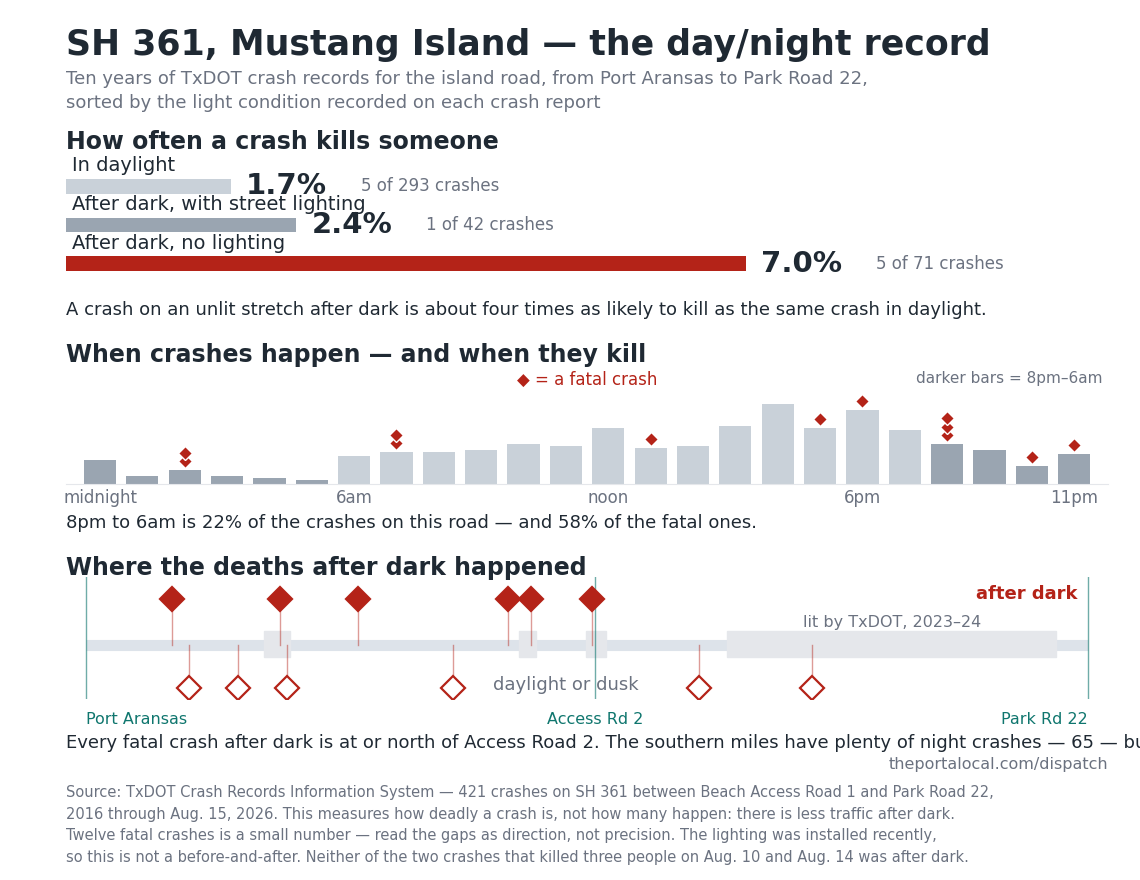
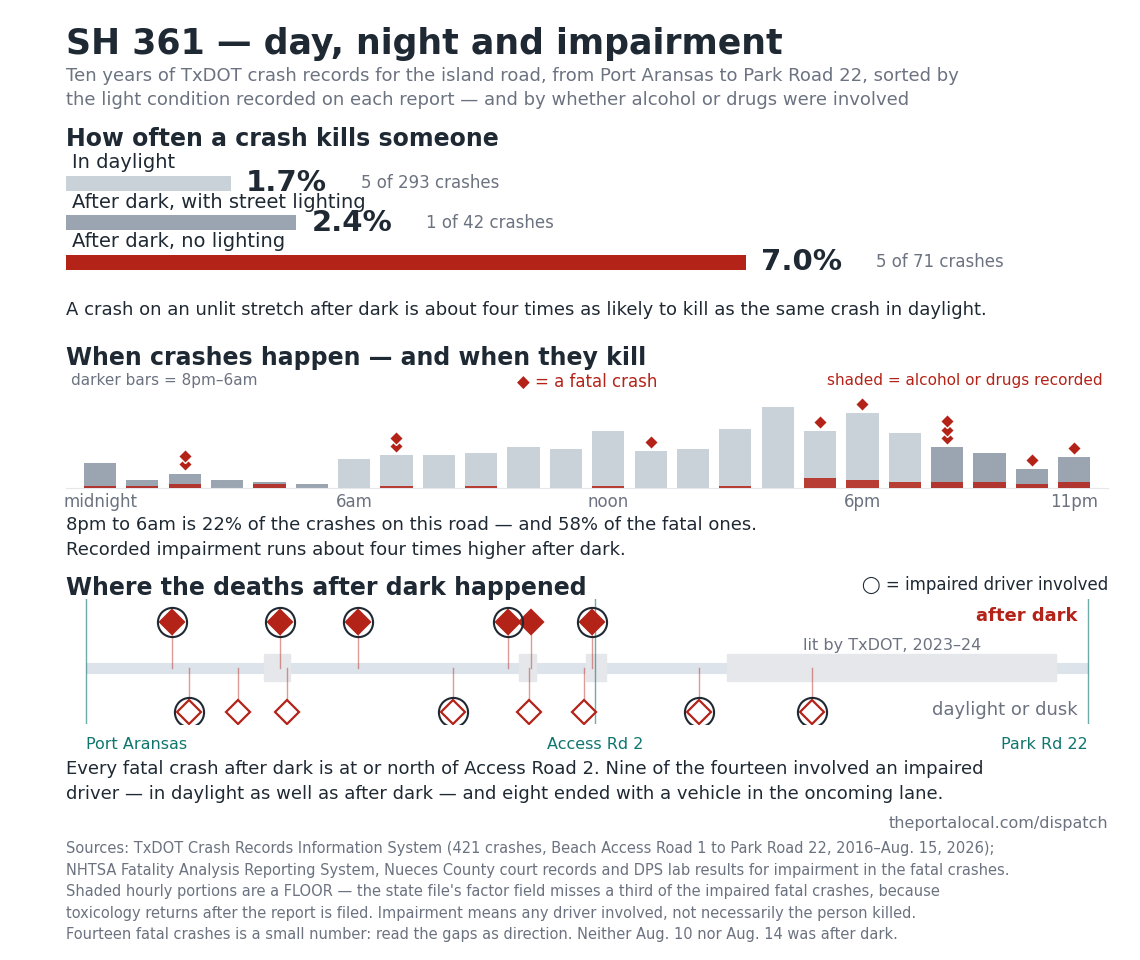
feat(dispatch): overlay impairment onto the SH 361 day/night graph (#149)
The alcohol layer was asked for on the graph; it shipped yesterday as prose and a
table only. Now it is on the chart, updated in place at the same filenames so the
published follow-up picks it up:

- Hours panel: the portion of each hour's crashes with alcohol or drugs recorded is
  shaded inside the bar. Labeled a floor on the face of the chart, because the state
  file's factor field misses a third of the impaired fatal crashes.
- Corridor panel: every fatal crash where an impaired driver was involved is circled.
  Impairment for the fatal crashes comes from FARS lab results, court outcomes and
  DPS toxicology — not the state factor field — so all fourteen are classified from
  the best available record. Nine of fourteen.
- Title, subtitle, captions, alt text and source note updated for the added layer.

The fatal-share-by-light panel is unchanged; alcohol is deliberately not crossed with
it, because those cells are one, two and three crashes.

Changed region(s): [[0.0307, 0.0307, 1.0, 0.9818]]

diff --git a/src/data/dispatch-content.ts b/src/data/dispatch-content.ts
@@ -426,9 +426,9 @@ export const dispatchContent: Record<string, DispatchContent> = {
         figure: {
           src: "/images/sh361-night-map.png",
           srcWide: "/images/sh361-night-map-desktop.png",
-          alt: "Three panels of SH 361 crash data by light condition: fatal share by daylight, dark with lighting and dark without; crashes by hour of day with fatal crashes marked; and the corridor showing where fatal crashes after dark occurred relative to lit sections.",
+          alt: "Three panels of SH 361 crash data. First, how often a crash kills someone by light condition: 1.7% in daylight, 2.4% after dark with street lighting, 7.0% after dark with none. Second, crashes by hour of day, with the portion involving recorded alcohol or drugs shaded and each fatal crash marked. Third, the corridor from Port Aransas to Park Road 22 showing every fatal crash by day or night, circled where an impaired driver was involved, against the sections TxDOT has lit.",
           caption:
-            "SH 361 between Beach Access Road 1 and Park Road 22, 2016 through August 15, 2026. Source: TxDOT Crash Records Information System. The underlying file is published with Saturday's piece.",
+            "SH 361 between Beach Access Road 1 and Park Road 22, 2016 through August 15, 2026. Updated August 18 with the impairment layer. Sources: TxDOT Crash Records Information System; NHTSA Fatality Analysis Reporting System, Nueces County court records and DPS lab results for impairment in the fatal crashes. The underlying file is published with Saturday's piece.",
           minWidth: 620,
         },
       },
@@ -465,7 +465,7 @@ export const dispatchContent: Record<string, DispatchContent> = {
       {
         heading: "Update, August 18: the alcohol layer, and why the file undercounts it",
         body: [
-          "A reader asked us to add impairment to the day-and-night view. We did, and it turned into two findings — one about the road, one about the record itself.",
+          "A reader asked us to add impairment to the day-and-night view. The chart above now carries it: the shaded portion of each hour is the share of those crashes with alcohol or drugs recorded, and every fatal crash circled in the bottom panel involved an impaired driver. Adding the layer turned up two findings — one about the road, one about the record itself.",
           "Sorted by light, the corridor's crash reports record alcohol or drugs in 4.4 percent of daylight crashes, 16.3 percent of crashes after dark on lit stretches, and 18.3 percent after dark with no lighting. Impairment shows up roughly four times as often in crashes after dark. That is thirty-three flagged crashes out of 421, so treat it as direction rather than a precise rate.",
           "Then we checked that field against the federal fatality file, which carries actual laboratory results, and it does not hold up. Of the corridor's twelve fatal crashes in the state file, the contributing-factor field flags six as involving alcohol or drugs. The federal file, court outcomes and DPS lab work establish impairment in nine.",
           "The clearest example is the crash that killed a 35-year-old Corpus Christi man in August 2024. The federal record puts the at-fault driver's blood alcohol at 0.200 — two and a half times the legal limit. The state crash report's contributing-factor field for that crash says only \"failed to drive in single lane.\"",

diff --git a/Port A Local/Dispatch Research/SH 361 — data/nightgraph.py b/Port A Local/Dispatch Research/SH 361 — data/nightgraph.py
@@ -18,6 +18,23 @@ C = [r for r in rows if f(r["DFO"]) is not None and LO <= f(r["DFO"]) <= HI]
 def isfatal(r): return r["Crash Severity"].startswith("K")
 def isdark(r):  return r["Light Condition"].startswith("DARK")   # dawn/dusk are not dark
 
+# Impairment for the FATAL crashes comes from the best available record — FARS lab
+# results, court outcomes, DPS toxicology — not the state file's contributing-factor
+# field, which misses a third of them. Keyed by crash date.
+IMPAIRED_FATAL = {
+    "2016-01-13": True,   "2018-03-17": True,   "2019-01-25": False,
+    "2022-06-16": False,  "2022-08-13": True,   "2023-06-30": True,
+    "2023-07-03": True,   "2023-11-02": True,   "2024-05-14": True,
+    "2024-08-09": True,   "2025-08-15": True,   "2026-03-02": False,
+}
+# Aug 2026 crashes are not in the state file yet: (DFO, deaths, dark?, impaired?)
+NEWS_FATAL = [(27.72, 1, False, False), (26.90, 2, False, False)]
+ALC_FLAG = ("UNDER INFLUENCE - ALCOHOL", "HAD BEEN DRINKING",
+            "UNDER INFLUENCE - DRUG", "TAKING MEDICATION")
+def flagged(r):
+    s = (r["Contributing Factors"] or "") + ";" + (r["Other Factor"] or "")
+    return any(k in s for k in ALC_FLAG)
+
 # same palette as the published corridor chart
 INK="#1f2933"; MUTED="#6b7280"; GRID="#e5e7eb"; BAR="#9aa5b1"; BARLIGHT="#c9d1d9"
 FATAL="#b42318"; ACCENT="#0f766e"; PAPER="#ffffff"
@@ -26,10 +43,11 @@ GROUPS = [("In daylight", "DAYLIGHT", BARLIGHT),
           ("After dark, with street lighting", "DARK, LIGHTED", BAR),
           ("After dark, no lighting", "DARK, NOT LIGHTED", FATAL)]
 LIT_SECTIONS = [(22.96, 23.34), (26.75, 27.00), (27.75, 28.05), (29.85, 34.75)]
-SOURCE = ("Source: TxDOT Crash Records Information System — 421 crashes on SH 361 between Beach Access Road 1 and Park Road 22,\n"
-          "2016 through Aug. 15, 2026. This measures how deadly a crash is, not how many happen: there is less traffic after dark.\n"
-          "Twelve fatal crashes is a small number — read the gaps as direction, not precision. The lighting was installed recently,\n"
-          "so this is not a before-and-after. Neither of the two crashes that killed three people on Aug. 10 and Aug. 14 was after dark.")
+SOURCE = ("Sources: TxDOT Crash Records Information System (421 crashes, Beach Access Road 1 to Park Road 22, 2016–Aug. 15, 2026);\n"
+          "NHTSA Fatality Analysis Reporting System, Nueces County court records and DPS lab results for impairment in the fatal crashes.\n"
+          "Shaded hourly portions are a FLOOR — the state file's factor field misses a third of the impaired fatal crashes, because\n"
+          "toxicology returns after the report is filed. Impairment means any driver involved, not necessarily the person killed.\n"
+          "Fourteen fatal crashes is a small number: read the gaps as direction. Neither Aug. 10 nor Aug. 14 was after dark.")
 
 
 def panel_share(ax, label_size, num_size, note_size, gap=1.55):
@@ -49,16 +67,20 @@ def panel_share(ax, label_size, num_size, note_size, gap=1.55):
 
 
 def panel_hours(ax, tick_size, legend_size):
-    H = collections.Counter(); HF = collections.Counter()
+    H = collections.Counter(); HF = collections.Counter(); HA = collections.Counter()
     for r in C:
         t = (r["Crash Time"] or "").strip()
         if len(t) != 4 or not t[:2].isdigit(): continue
         h = int(t[:2]); H[h] += 1
         if isfatal(r): HF[h] += 1
+        if flagged(r): HA[h] += 1
     hours = range(24)
     isnight = lambda h: h >= 20 or h < 6
     ax.bar(list(hours), [H[h] for h in hours], width=0.76, zorder=2,
            color=[BAR if isnight(h) else BARLIGHT for h in hours])
+    # impairment overlay — the portion of each hour's crashes with a recorded
+    # alcohol or drug factor. A floor: the field misses cases (see note).
+    ax.bar(list(hours), [HA[h] for h in hours], width=0.76, zorder=3, color=FATAL, alpha=0.85)
     for h in hours:
         for i in range(HF[h]):
             ax.plot([h], [H[h] + 4.5 + 4.2 * i], marker="D", color=FATAL, ms=7.5,
@@ -71,25 +93,35 @@ def panel_hours(ax, tick_size, legend_size):
     ax.spines["bottom"].set_color(GRID)
     ax.text(0.5, 0.93, "◆ = a fatal crash", transform=ax.transAxes, fontsize=legend_size,
             color=FATAL, ha="center", va="top")
-    ax.text(0.995, 0.93, "darker bars = 8pm–6am", transform=ax.transAxes,
-            fontsize=legend_size - 1, color=MUTED, ha="right", va="top")
+    ax.text(0.995, 0.93, "shaded = alcohol or drugs recorded", transform=ax.transAxes,
+            fontsize=legend_size - 1, color=FATAL, ha="right", va="top")
+    ax.text(0.005, 0.93, "darker bars = 8pm–6am", transform=ax.transAxes,
+            fontsize=legend_size - 1, color=MUTED, ha="left", va="top")
 
 
 def panel_corridor(ax, label_size, tick_size):
     for a, b in LIT_SECTIONS:
         ax.axvspan(a, b, ymin=0.34, ymax=0.56, color=GRID, zorder=1)
     ax.plot([LO, HI], [0.45, 0.45], color="#dde3ea", lw=8, solid_capstyle="butt", zorder=0)
-    for r in C:
-        if not isfatal(r): continue
-        d = f(r["DFO"]); dark = isdark(r)
-        ax.plot([d], [0.86 if dark else 0.06], marker="D", ms=12,
+    def mark(d, dark, impaired):
+        y = 0.86 if dark else 0.06
+        ax.plot([d], [y], marker="D", ms=12,
                 mfc=FATAL if dark else PAPER, mec=FATAL, mew=1.6, zorder=4)
         ax.plot([d, d], [0.45, 0.79 if dark else 0.13], color=FATAL, lw=1,
                 alpha=0.45, zorder=2)
+        if impaired:
+            ax.plot([d], [y], marker="o", ms=21, mfc="none", mec=INK, mew=1.5,
+                    zorder=5)
+    for r in C:
+        if not isfatal(r): continue
+        mark(f(r["DFO"]), isdark(r), IMPAIRED_FATAL.get(r["Crash Date"], False))
+    for d, _n, dark, imp in NEWS_FATAL:
+        mark(d, dark, imp)
     ax.text(HI - 0.15, 0.99, "after dark", fontsize=label_size, color=FATAL,
             fontweight="bold", va="top", ha="right")
-    ax.text(27.45, 0.0, "daylight or dusk", fontsize=label_size, color=MUTED,
-            va="bottom", ha="center")
+    ax.text(HI - 0.15, 0.0, "daylight or dusk", fontsize=label_size, color=MUTED,
+            va="bottom", ha="right")
+
     ax.text(32.3, 0.585, "lit by TxDOT, 2023–24", fontsize=tick_size, color=MUTED,
             ha="center", va="bottom")
     for x, lab, ha in [(20.31, "Port Aransas", "left"), (27.88, "Access Rd 2", "center"),
@@ -106,10 +138,10 @@ def render_mobile(out):
     fig = plt.figure(figsize=(10.8, 13.5), dpi=100); fig.patch.set_facecolor(PAPER)
     head = lambda y, t: fig.text(L, y, t, fontsize=20, fontweight="bold", color=INK, va="top")
     note = lambda y, t: fig.text(L, y, t, fontsize=14.5, color=INK, va="top", linespacing=1.5)
-    fig.text(L, 0.972, "SH 361, Mustang Island — the day/night record",
+    fig.text(L, 0.972, "SH 361 — day, night and impairment",
              fontsize=26, fontweight="bold", color=INK, va="top")
-    fig.text(L, 0.936, "Ten years of TxDOT crash records for the island road, from Port Aransas\n"
-                       "to Park Road 22, sorted by the light condition on each crash report",
+    fig.text(L, 0.936, "Ten years of TxDOT crash records for the island road, Port Aransas to Park\n"
+                       "Road 22 — by light condition, and by whether drink or drugs were involved",
              fontsize=15, color=MUTED, va="top", linespacing=1.45)
     head(0.876, "How often a crash kills someone")
     panel_share(fig.add_axes([L, 0.700, W, 0.156]), 16.5, 25, 13.5)
@@ -117,12 +149,15 @@ def render_mobile(out):
                 "as the same crash in daylight.")
     head(0.630, "When crashes happen — and when they kill")
     panel_hours(fig.add_axes([L, 0.464, W, 0.145]), 13.5, 13.5)
-    note(0.426, "8pm to 6am is 22% of the crashes on this road — and 58% of the fatal ones.")
+    note(0.420, "8pm to 6am is 22% of the crashes on this road — and 58% of the fatal ones.\n"
+                "Recorded impairment runs about four times higher after dark.")
     head(0.384, "Where the deaths after dark happened")
+    fig.text(R, 0.384, "◯ = impaired driver involved", fontsize=13, color=INK,
+             va="top", ha="right")
     panel_corridor(fig.add_axes([L, 0.205, W, 0.148]), 14.5, 13)
-    note(0.162, "Every fatal crash after dark is at or north of Access Road 2. The southern\n"
-                "miles have plenty of night crashes — 65 — but none of them fatal, before or\n"
-                "after the lights went in.")
+    note(0.156, "Every fatal crash after dark is at or north of Access Road 2. Nine of the\n"
+                "fourteen involved an impaired driver — in daylight as well as after dark —\n"
+                "and eight ended with a vehicle in the oncoming lane.")
     fig.text(R, 0.104, "theportalocal.com/dispatch", fontsize=12.5, color=MUTED,
              va="top", ha="right")
     fig.text(L, 0.078, SOURCE, fontsize=11, color=MUTED, va="top", linespacing=1.55)
@@ -132,25 +167,29 @@ def render_mobile(out):
 def render_desktop(out):
     """Landscape: same three panels, stacked full width — wide and short."""
     L, R = 0.058, 0.972; W = R - L
-    fig = plt.figure(figsize=(11.4, 8.8), dpi=100); fig.patch.set_facecolor(PAPER)
+    fig = plt.figure(figsize=(11.4, 9.6), dpi=100); fig.patch.set_facecolor(PAPER)
     head = lambda y, t: fig.text(L, y, t, fontsize=17, fontweight="bold", color=INK, va="top")
     note = lambda y, t: fig.text(L, y, t, fontsize=13, color=INK, va="top", linespacing=1.5)
-    fig.text(L, 0.968, "SH 361, Mustang Island — the day/night record",
+    fig.text(L, 0.972, "SH 361 — day, night and impairment",
              fontsize=25, fontweight="bold", color=INK, va="top")
-    fig.text(L, 0.921, "Ten years of TxDOT crash records for the island road, from Port Aransas to Park Road 22,\n"
-                       "sorted by the light condition recorded on each crash report",
+    fig.text(L, 0.930, "Ten years of TxDOT crash records for the island road, from Port Aransas to Park Road 22, sorted by\n"
+                       "the light condition recorded on each report — and by whether alcohol or drugs were involved",
              fontsize=13, color=MUTED, va="top", linespacing=1.45)
-    head(0.852, "How often a crash kills someone")
-    panel_share(fig.add_axes([L, 0.672, W, 0.158]), 14, 21, 12, gap=1.35)
-    note(0.658, "A crash on an unlit stretch after dark is about four times as likely to kill as the same crash in daylight.")
-    head(0.610, "When crashes happen — and when they kill")
-    panel_hours(fig.add_axes([L, 0.450, W, 0.138]), 12, 12)
-    note(0.416, "8pm to 6am is 22% of the crashes on this road — and 58% of the fatal ones.")
-    head(0.368, "Where the deaths after dark happened")
-    panel_corridor(fig.add_axes([L, 0.206, W, 0.138]), 13, 11.5)
-    note(0.166, "Every fatal crash after dark is at or north of Access Road 2. The southern miles have plenty of night crashes — 65 — but none fatal, before or after the lights.")
-    fig.text(R, 0.140, "theportalocal.com/dispatch", fontsize=11.5, color=MUTED, va="top", ha="right")
-    fig.text(L, 0.108, SOURCE, fontsize=10.5, color=MUTED, va="top", linespacing=1.55)
+    head(0.868, "How often a crash kills someone")
+    panel_share(fig.add_axes([L, 0.700, W, 0.148]), 14, 21, 12, gap=1.35)
+    note(0.686, "A crash on an unlit stretch after dark is about four times as likely to kill as the same crash in daylight.")
+    head(0.640, "When crashes happen — and when they kill")
+    panel_hours(fig.add_axes([L, 0.492, W, 0.128]), 12, 12)
+    note(0.462, "8pm to 6am is 22% of the crashes on this road — and 58% of the fatal ones.\n"
+                "Recorded impairment runs about four times higher after dark.")
+    head(0.400, "Where the deaths after dark happened")
+    fig.text(R, 0.400, "◯ = impaired driver involved", fontsize=12, color=INK,
+             va="top", ha="right")
+    panel_corridor(fig.add_axes([L, 0.246, W, 0.130]), 13, 11.5)
+    note(0.208, "Every fatal crash after dark is at or north of Access Road 2. Nine of the fourteen involved an impaired\n"
+                "driver — in daylight as well as after dark — and eight ended with a vehicle in the oncoming lane.")
+    fig.text(R, 0.150, "theportalocal.com/dispatch", fontsize=11.5, color=MUTED, va="top", ha="right")
+    fig.text(L, 0.124, SOURCE, fontsize=10.5, color=MUTED, va="top", linespacing=1.55)
     plt.savefig(out, facecolor=PAPER); print("saved", out)
 
 
